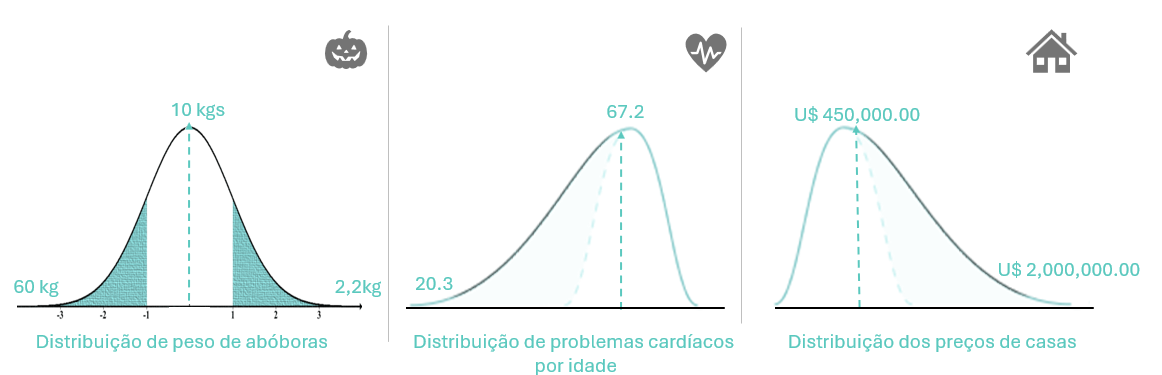
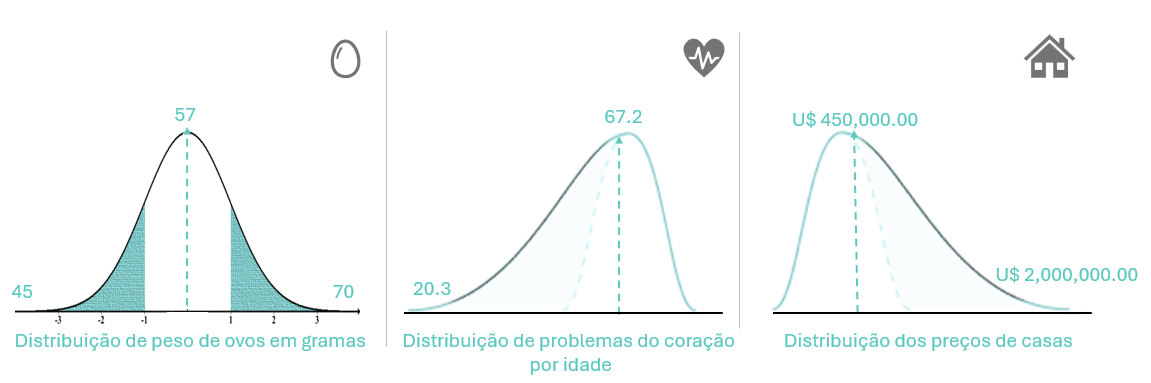
update histogram

diff --git a/docs/histograma.html b/docs/histograma.html
@@ -330,10 +330,11 @@ pre > code.sourceCode > span > a:first-child::before { text-decoration: underlin
 </ul>
 <p>Exemplo: Se você mede a altura de 100 pessoas, o histograma pode mostrar quantas pessoas têm entre 1.60 e 1.75, entre 1.75 a 1.85, e assim por diante.</p>
 <p><strong>Característias técnicas</strong></p>
+<p>A figura abaixo nos mostra alguns padrões que podem ser observados em um histograma.</p>
 <ul>
-<li><p>O peso das abóboras é simétrico ou seja a maior parte delas pesa em média 10 kgs cada uma.</p></li>
-<li><p>A distribuição de problemas cardíacos por idade, é assimétrica a esquerda ou seja, a ocorrência de casos em pessoas com 20 anos é muito baixa, a maior parte está concentrada em 67 acima.</p></li>
-<li><p>A distribuição dos preços das casas, é assimétrica a direita ou seja, a maioria das casas da amostra, possuem preços por volta de 450 mil, mas existem algumas poucas com preços bem elevados por volta de 2 milhões cada uma.</p></li>
+<li><p>O gráfico da esquerda nos mostra que o peso dos ovos é simétrico ou seja, a maior parte deles pesa em média 57 gramas, já a concentração de ovos que pesam por volta de 45 gramas e 70 gramas é bem pequena.</p></li>
+<li><p>O gráfico do centro nos mostra que a distribuição de problemas cardíacos por idade é assimétrica a esquerda ou seja, a ocorrência de casos está concentrada na faixa de idade acima 67 anos, já a concentração de casos abaixo dessa faixa é bem baixo.</p></li>
+<li><p>O gráfico da direita nos mostra que a distribuição dos preços das casas é assimétrica a direita ou seja, a maioria das casas da amostra, possuem preços por volta de 450 mil, mas existem algumas poucas com preços bem elevados por volta de 2 milhões cada uma.</p></li>
 </ul>
 <div class="quarto-figure quarto-figure-center">
 <figure class="figure">
@@ -342,7 +343,7 @@ pre > code.sourceCode > span > a:first-child::before { text-decoration: underlin
 </figure>
 </div>
 <p><strong>Tipos de distribuição dos dados</strong></p>
-<p>Para um estatístico ou melhorista de processos, cada formato do histograma o qual revela a distribuição dos dados, conta uma historia sobre os dados. Abaixo alguns exemplos de distribuições.</p>
+<p>Para um estatístico ou melhorista de processos, cada forma que os dados se distribuem em um histograma, conta uma historia diferente sobre os dados. Abaixo alguns exemplos de distribuições.</p>
 <div class="quarto-figure quarto-figure-center">
 <figure class="figure">
 <p><img src="images\histogram_types.png" class="img-fluid figure-img" width="699"></p>
@@ -353,7 +354,7 @@ pre > code.sourceCode > span > a:first-child::before { text-decoration: underlin
 <section id="qual-o-objetivo" class="level2 unnumbered">
 <h2 class="unnumbered anchored" data-anchor-id="qual-o-objetivo">Qual o objetivo</h2>
 <ul>
-<li><p><strong>Visualizar a distribuição dos dados</strong> Ele revela se os dados são simétricos(formato de sino), assimétricos(como uma cauda longa para um lado), concentrados, dispersos, . A forma, da pistas sobre a natureza dos dados e os processos que os geraram.</p></li>
+<li><p><strong>Visualizar a distribuição dos dados</strong> Ele revela se os dados são simétricos(formato de sino), assimétricos(como uma cauda longa para um lado), concentrados, dispersos. A forma, da pistas sobre a natureza dos dados e os processos que os geraram.</p></li>
 <li><p><strong>Identificar padrões</strong> multimodal(com várias picos), caudas, lacunas ou outliers(valores muito distantes do corpo principal da distribuição)</p></li>
 <li><p><strong>Comparar distribuições</strong> de diferentes conjuntos de dados (e.g.&nbsp;podemos comparar a distribuição de notas de alunos em duas turmas diferentes para avaliar se o desempenho relativo das turmas)</p></li>
 <li><p><strong>Apoior decisões</strong> guiando a escolha de modelos estatísticos mais adequados para cada tipo de dados em áreas como estatística, ciência de dados, economia, psicologia, medicina, engenharia ou outra área que lide com dados quantitativos.</p></li>
